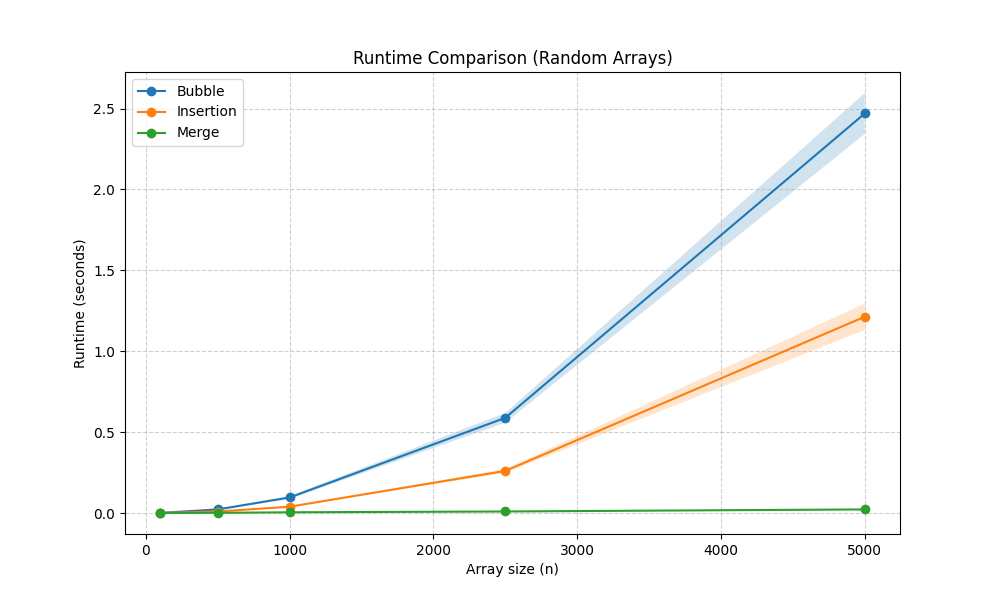
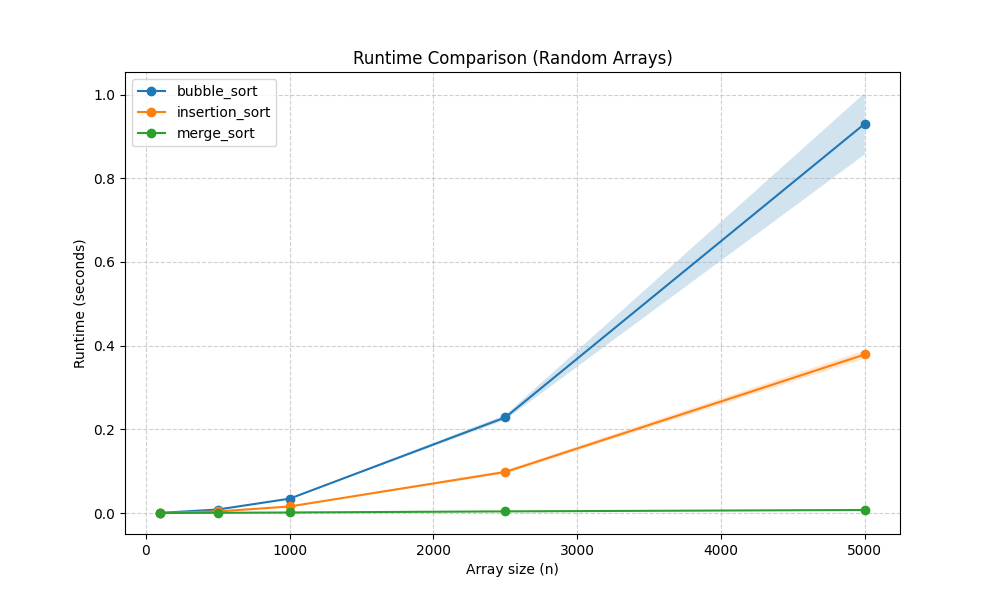
adding graphs and python code

diff --git a/run_experiments.py b/run_experiments.py
@@ -124,36 +124,69 @@ def main(algorithms, iterations, array_sizes, file_name, is_random, noise_per=0)
             summary_results[name]['means'].append(statistics.mean(runtimes))
             summary_results[name]['stds'].append(statistics.stdev(runtimes))
 
-            print(f"Finished {name} for size {arr_size}")
-
     plot_results(array_sizes, summary_results, file_name, noise_per)
+
+def parse_algo_to_exec(ids, algo_map,algorithms):
+    updated_dict = {}
+    for id in ids:
+        if id in algo_map.keys():
+            updated_dict[algo_map[id]] = algorithms[algo_map[id]]
+    return updated_dict
+
 
 
 if __name__ == '__main__':
     algorithms = {
-        'Bubble': bubble_sort,
-        'Insertion': insertion_sort,
-        'Merge': merge_sort
+        'bubble_sort': bubble_sort,
+        'insertion_sort': insertion_sort,
+        'merge_sort': merge_sort
     }
-
+    # mapping of sort kind
+    algo_map = {
+        '1': 'bubble_sort',
+        '3': 'insertion_sort',
+        '4': 'merge_sort'
+    }
     array_sizes = [100, 500, 1000, 2500, 5000]
     iterations = 5  # to get correct average will repeat every size 5 times
-
-    main(algorithms, iterations, array_sizes, 'result1,png', True)  # part B
-    main(algorithms, iterations, array_sizes, 'result2.png', False, 5)  # part C
 
     # part D:
     parser = argparse.ArgumentParser(description="Run sorting experiments")
 
-    parser.add_argument("-a", "--algorithms", type=str, help="Algorithm IDs (e.g., 125)")
+    parser.add_argument("-a", "--algorithms", type=str,nargs='+', help="Algorithm IDs (e.g., 125)")
     parser.add_argument("-s", "--sizes", type=int, nargs='+', help="Array sizes")
     parser.add_argument("-e", "--experiment", type=int, choices=[1, 2], help="1: 5% noise, 2: 20% noise")
     parser.add_argument("-r", "--repetitions", type=int, default=1, help="Number of repetitions")
 
     args = parser.parse_args()
+    # insert values to variables
+    array_sizes_arg = args.sizes if args.sizes else [100, 500, 1000]  # default values if none was given
+    reps = args.repetitions if args.repetitions else 1 # number or repetitions
+    if args.experiment == 1:
+        noise = 5
+    elif args.experiment == 2:
+        noise = 20
+    else:
+        noise = 0
+    is_random = True if noise == 0 else False
 
-    # כאן את מחברת את הארגומנטים ללולאות הניסוי שכתבת
+
+
+    #  running exp
     if args.algorithms:
-        # דוגמה: אם המשתמש הזין "125", נריץ את Bubble(1), Insertion(3) ו-Merge(4) [cite: 71-76]
-        # שימי לב להתאמה בין ה-ID לאלגוריתם לפי הרשימה במטלה [cite: 71]
-        pass
+        for k in args.algorithms:
+            if k not in algo_map.keys():
+                print("algorithm isn't supported")
+                exit()
+        algo_parsed = parse_algo_to_exec(args.algorithms,algo_map,algorithms)
+        main(algo_parsed,reps,array_sizes_arg,'result_cmd.png',is_random,noise)
+    else:
+        print("no argument given- running B,C task")
+        main(algorithms, iterations, array_sizes, 'result1.png', True)  # part B
+        main(algorithms, iterations, array_sizes, 'result2.png', False, 5)  # part C
+
+
+
+
+
+
